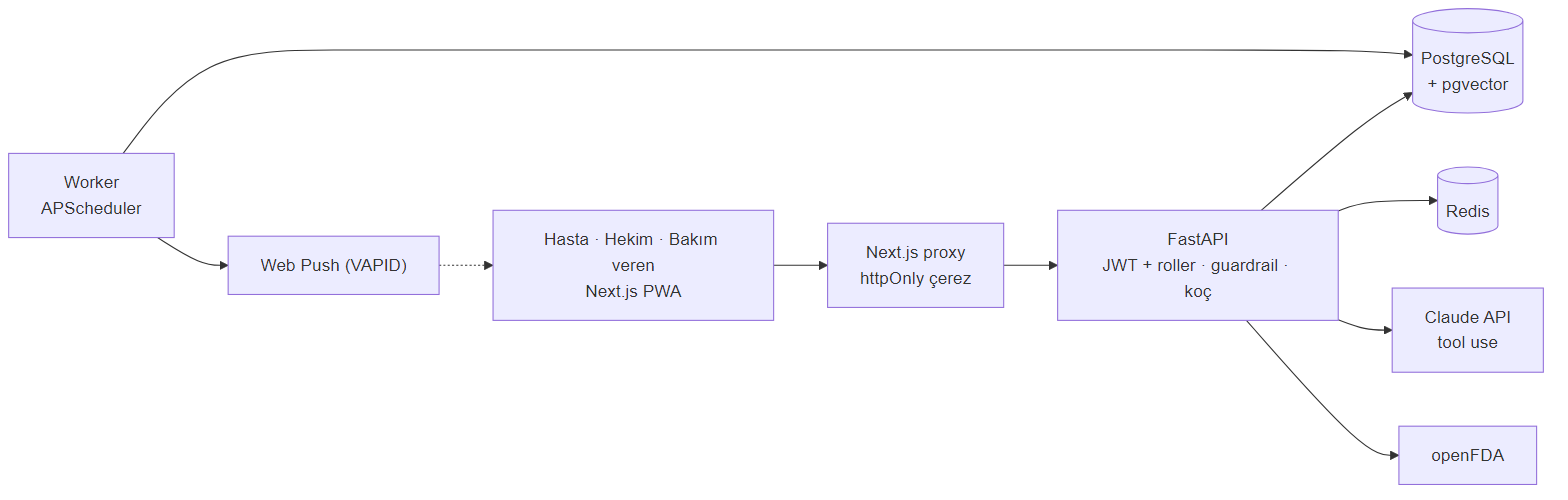
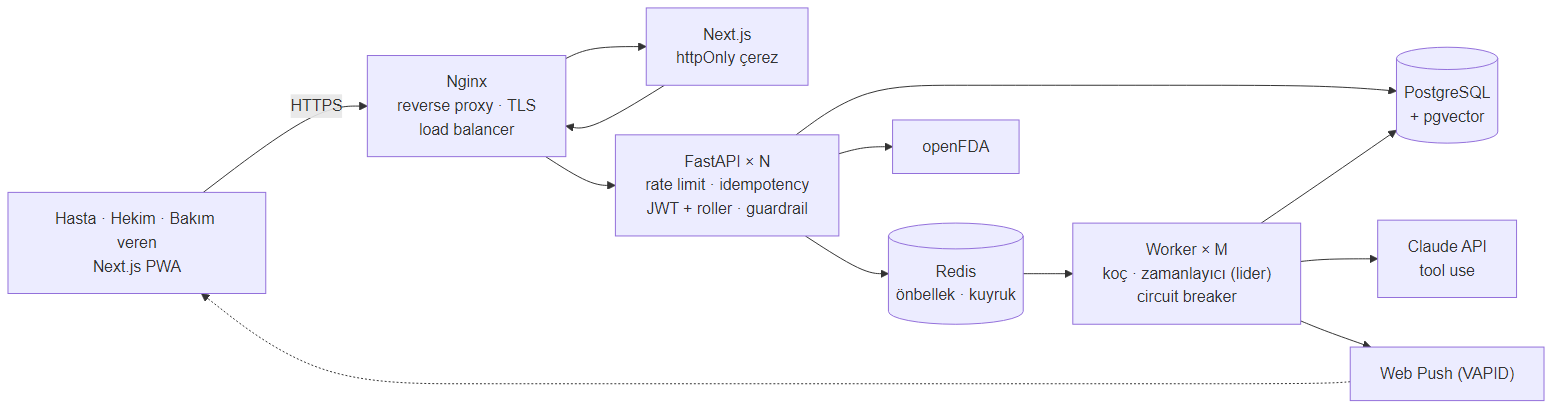
README: mimari özet diyagramı ve öne çıkan backend özellikleri güncellendi

diff --git a/README.md b/README.md
@@ -2,6 +2,13 @@
 
 Tip 2 diyabet ve hipertansiyon hastalarının ilaç ve ölçüm takibini yaptığı, LLM koçun **tıbbi tavsiye vermeden** kişiselleştirilmiş, veriye dayalı ve kaynaklı geri bildirim verdiği, hekim için uyum dashboard'u sunan sağlık platformu.
 
+**Öne çıkan mimari özellikler (plan)**
+
+- **Güvenlik LLM'e bırakılmaz:** acil belirti ve doz soruları deterministik filtreyle LLM'den önce yakalanır; red-team seti CI'da koşar.
+- **Ölçeklenebilir:** Nginx reverse proxy + load balancer arkasında durumsuz FastAPI kopyaları; token bucket rate limit.
+- **Dayanıklı:** idempotent yazma uçları, kuyruk + worker, retry/backoff, dead-letter queue, circuit breaker, lider seçimli zamanlayıcı.
+- **Gözlemlenebilir:** Prometheus + Grafana, OpenTelemetry + Jaeger; k6 ile yük testi.
+
 > ⚠ Koç teşhis koymaz ve ilaç dozu önermez. Acil durumlarda **112**'yi arayın. Proje yalnızca sentetik demo verisiyle çalışır.
 
 Proje tanımı: [docs/PROJE_TANIMI.md](docs/PROJE_TANIMI.md)
@@ -24,7 +31,7 @@ Proje tanımı: [docs/PROJE_TANIMI.md](docs/PROJE_TANIMI.md)
 | [02 — Guardrail politikası](docs/M1/02-guardrail-politikasi.md) | Koçun asla yapmadıkları, 3 katmanlı kontrol, acil belirti kategorileri, sabit yanıtlar |
 | [03 — Veri gizliliği](docs/M1/03-veri-gizliligi.md) | KVKK ilkeleri, rol bazlı erişim matrisi, LLM'e giden veri, güven sınırları |
 | [04 — Kullanıcı akışları](docs/M1/04-kullanici-akislari.md) | Hasta, hekim, bakım veren ve acil belirti akışları |
-| [05 — Sistem mimarisi](docs/M1/05-mimari.md) | Bağlam, bileşen, koç/hatırlatma/openFDA dizileri, dağıtım, tasarım kararları |
+| [05 — Sistem mimarisi](docs/M1/05-mimari.md) | Bağlam, bileşen, istek yolu, koç kuyruğu, circuit breaker, hatırlatma, openFDA, dağıtım; ölçeklenebilirlik/dayanıklılık, rate limit politikası, yük testi planı |
 | [06 — ER diyagramı (taslak)](docs/M1/06-er-diyagrami.md) | Planlanan veri modeli |
 
 ## Mimari (özet)
@@ -35,13 +42,15 @@ Proje tanımı: [docs/PROJE_TANIMI.md](docs/PROJE_TANIMI.md)
 
 ```mermaid
 flowchart LR
-    U["Hasta · Hekim · Bakım veren<br/>Next.js PWA"] --> PX["Next.js proxy<br/>httpOnly çerez"]
-    PX --> API["FastAPI<br/>JWT + roller · guardrail · koç"]
+    U["Hasta · Hekim · Bakım veren<br/>Next.js PWA"] -- HTTPS --> NGX["Nginx<br/>reverse proxy · TLS<br/>load balancer"]
+    NGX --> PX["Next.js<br/>httpOnly çerez"] --> NGX
+    NGX --> API["FastAPI × N<br/>rate limit · idempotency<br/>JWT + roller · guardrail"]
     API --> DB[("PostgreSQL<br/>+ pgvector")]
-    API --> RD[("Redis")]
-    API --> LLM["Claude API<br/>tool use"]
+    API --> RD[("Redis<br/>önbellek · kuyruk")]
     API --> FDA["openFDA"]
-    WK["Worker<br/>APScheduler"] --> DB
+    RD --> WK["Worker × M<br/>koç · zamanlayıcı (lider)<br/>circuit breaker"]
+    WK --> LLM["Claude API<br/>tool use"]
+    WK --> DB
     WK --> WP["Web Push (VAPID)"] -.-> U
 ```
 
@@ -56,4 +65,5 @@ Ayrıntı: [docs/M1/05-mimari.md](docs/M1/05-mimari.md)
 | Frontend | Next.js (PWA), TypeScript, Recharts, shadcn/ui |
 | Backend | FastAPI, SQLAlchemy, Alembic, APScheduler, pywebpush |
 | LLM | Claude API (tool use + structured output), pgvector (RAG) |
-| Altyapı | PostgreSQL, Redis, Docker Compose, GitHub Actions |
+| Altyapı | PostgreSQL, Redis, Nginx (reverse proxy + LB), Docker Compose, GitHub Actions |
+| Gözlemlenebilirlik / test | Prometheus, Grafana, OpenTelemetry, Jaeger, k6 |
